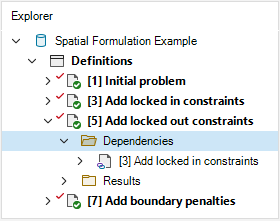
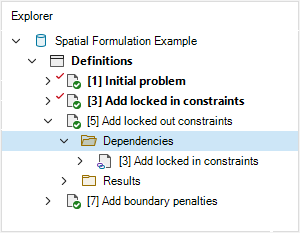
Updates to spatial_formulation_tutorial.md

diff --git a/docs/spatial_formulation_tutorial.md b/docs/spatial_formulation_tutorial.md
@@ -31,7 +31,7 @@ In SyncroSim, a library is a file with extension *.ssim* that stores all the mod
 
 2\. In this example, you will review a pre-configured library. To do so, select **File > New > From Online Template...**
 
-<!-- Add screenshot of step 2 !-->
+<img align="center" style="padding: 13px" width="500" src="assets/images/screenshot7.png">
 
 <div class=indentation>
 a. From the list of packages, select <b>prioritizr</b>. 
@@ -43,8 +43,7 @@ c.  If desired, you may edit the <i>File name</i>, and change the <i>Folder</i> 
 d. When done, click <b>OK</b>.
 </div>
 
-<!--Insert image of template library window-->
-<!--img align="center" style="padding: 13px" width="500" src=".assets/images/screenshot8.png"-->
+<img align="center" style="padding: 13px" width="600" src="assets/images/screenshot8.png">
 
 <br>
 
@@ -84,7 +83,7 @@ Now, you will review the inputs for the *Initial problem* scenario, which sets u
 
 10\.	Navigate to the **Pipeline** datasheet. Pipeline stages call on a transformer (*i.e.*, script) which takes the inputs from SyncroSim, runs a model, and returns the results to SyncroSim. Under the *Stage* column, note that a single pipeline stage is set, called *Base Prioritization*.
 
-<!-- Add screenshot !-->
+<img align="center" style="padding: 13px" width="800" src="assets/images/screenshot14-2.png">
 
 11\. Navigate to the **Prioritizr** tab, and expand the **Base Prioritization > Data** nodes. 
 
@@ -101,10 +100,12 @@ Now, you will review the inputs for the *Initial problem* scenario, which sets u
 
   <div class=indentation>
     i. <i>Planning Units</i> – a raster file of Washington (USA) in which each cell represents a different planning unit, and cell values denote land acquisition costs.
-    <!-- Add screenshot of raster, which can be taken from the prioritizr R documentation !-->
+    <br><br>
+  <img align="center" style="padding: 13px" width="500" src="assets/images/screenshot16-2.png">
     <br><br>
     ii. <i>Features</i> – a multi-layer raster file of the conservation feature data (i.e., bird species). Layers describe the spatial distribution of each bird species, where cell values denote the relative abundance of individuals.
-    <!-- Add screenshot of raster, which can be taken from the prioritizr R documentation !-->
+    <br><br>
+  <img align="center" style="padding: 13px" width="800" src="assets/images/screenshot16-3.png">
   </div>
 </div>
 
@@ -176,14 +177,13 @@ Now, you will review the inputs for the *Initial problem* scenario, which sets u
 
 The *Spatial Formulation Example* template library already contains the results for each scenario. Before exploring additional scenarios, you will view the main results for the **Initial problem** scenario. 
 
-<!-- Turn this into a actionable item and add screenshot of the expanded results folder !-->
-1\. In SyncroSim, the results for a scenario are organized into a *Results* folder, nested within its parent scenario.
+1\. In the *Explorer* window, expand the **Initial Problem > Results** node to reveal the **Inital Problem** results scenario.
 
 2\. Collapse the scenario node by clicking on the downward facing arrow beside the scenario name.
 
 3\. Navigate to the **Maps** tab, and double click on the pre-configured **Solution** map.
 
-<!-- Add screenshot !-->
+<img align="center" style="padding: 13px" width="600" src="assets/images/screenshot21-2.png">
 
 The *Solution* map shows which planning units have been selected for prioritization given the input data and parameters. Although this solution helps meet the representation targets, it does not account for existing protected areas inside the study area.
 
@@ -193,17 +193,17 @@ The *Solution* map shows which planning units have been selected for prioritizat
 
 Now, you will review the additional scenarios and explore how they differ from the *Initial problem*.
 
-<!-- Turn this item into an actionable step !-->
-5\. In the *Explorer* window, ... The **Add locked in constraints** scenario is dependent on the **Initial problem** scenario. We can see this in the Explorer window by expanding the **Add locked in constrains > Dependencies** node.*
+5\. In the *Explorer* window, expand the **Add locked in constraints > Dependencies** node to reveal the **Initial problem** scenario dependency.
 
 <img align="center" style="padding: 13px" width="300" src="assets/images/screenshot22.png">
 
 6\.	Select the pre-configured scenario **Add locked in constraints** and double-click it to open its properties. You may also right-click on the scenario name and select **Open** from the context menu.
 
-<!-- First, add an instruction to view the Input Format datasheet to show the information is greyed out and the "Inherit values..." checkbox is marked, explaining what it means (with screenshot to illustrate) !-->
-7\. 
+7\. Navigate to the **Prioritizr** tab, expand the **Base Prioritization > Data** node, and open the **Input Format** datasheet. Notice that this information cannot be edited (<i>i.e.</i>, greyed out) and the *"Inherit values from '[9] Initial Problem'"* checkbox in the bottom left corner is marked. This indicates that values within this datasheet are derived from the **Initial Problem** result scenario acting as a dependency.
 
-8\. Navigate to the **Prioritizr** tab, expand the **Parameters > Advanced > Constraints** nodes, and open the **Locked In** datasheet to review the following inputs:
+<img align="center" style="padding: 13px" width="400" src="assets/images/screenshot22-2.png">
+
+8\.  Navigate to the **Prioritizr** tab, expand the **Parameters > Advanced > Constraints** nodes, and open the **Locked In** datasheet to review the following inputs:
 
 <div class=indentation>
   i. <i>Add constraint</i> – set to <i>Yes</i>, ensuring that specific planning units area selected in the solution.
@@ -213,9 +213,13 @@ Now, you will review the additional scenarios and explore how they differ from t
 
 <img align="center" style="padding: 13px" width="500" src="assets/images/screenshot23.png">
 
-9\. <!-- Add to results, with screenshot !-->
+9\. In the *Explorer* window, right-click on the **Add locked in constraints** scenario, and select **Add to Results** from the context menu. 
 
-10\. <!-- View and comment on results, with screenshot !-->
+<img align="center" style="padding: 13px" width="400" src="assets/images/screenshot23-2.png">
+
+10\. Navigate to the **Maps** tab, and double click on the pre-configured **Solution** map. Notice that the **Add locked in constrains** results were added. This solution now accounts for existing protected areas inside the study area.
+
+<img align="center" style="padding: 13px" width="900" src="assets/images/screenshot23-3.png">
 
 <br>
 
@@ -228,15 +232,19 @@ The **Add locked out constraints** scenario addresses this issue by importing sp
 
 <br>
 
-16\.	In the *Explorer* window, select the pre-configured scenario **Add locked out constraints** and double-click it to open its properties. You may also right-click on the scenario name and select **Open** from the context menu.
-
-> *Note: the **Add locked out constraints** scenario is dependent on the **Add locked in constraints** scenario. We can see this in the Explorer window by expanding the **Add locked out constrains > Dependencies** node.*
+11\.	In the *Explorer* window, expand the **Add locked out constraints > Dependencies** node to reveal the **Add locked in constraints** scenario dependency.
 
 <img align="center" style="padding: 13px" width="300" src="assets/images/screenshot24.png">
 
 <br>
 
-17\. Navigate to the **Prioritizr** tab and expand the **Parameters > Advanced > Constraints** node. Open the **Locked Out** window to review the following inputs:
+12\.  Select the pre-configured scenario **Add locked out constraints** and double-click it to open its properties. You may also right-click on the scenario name and select **Open** from the context menu.
+
+13\.  Navigate to the **Prioritizr** tab, expand the **Base Prioritization > Data** node, and open the **Input Format** datasheet. Notice that this information cannot be edited (i.e., greyed out) and the *“Inherit values from ‘[10] Add locked in constraints’”* checkbox in the bottom left corner is marked. This indicates that values within this datasheet are derived from the **Add locked in constraints** result scenario acting as a dependency.
+
+<img align="center" style="padding: 13px" width="400" src="assets/images/screenshot24-2.png">
+
+14\.  Navigate to the **Prioritizr** tab, expand the **Parameters > Advanced > Constraints** node, and open the **Locked Out** datasheet to review the following inputs:
 
 <div class=indentation>
   i. <i>Add constraint</i> - must be set to <i>Yes</i> in order to add constraints to the conservation planning problem to ensure specific planning units area selected (or allocated to a specific zone) in the solution.
@@ -245,6 +253,14 @@ The **Add locked out constraints** scenario addresses this issue by importing sp
   </div>
 
 <img align="center" style="padding: 13px" width="500" src="assets/images/screenshot25.png">
+
+15\.  In the **Explorer** window, right-click on the **Add locked out constraints** scenario, and select **Add to Results** from the context menu.
+
+<img align="center" style="padding: 13px" width="400" src="assets/images/screenshot25-2.png">
+
+16\.  Navigate to the **Maps** tab, and double click on the pre-configured **Solution** map. Notice that the **Add locked out constraints** results were added. This solution now accounts for existing areas that are *not* available for protection inside the study area.
+
+<img align="center" style="padding: 13px" width="900" src="assets/images/screenshot25-3.png">
 
 <br>
 
@@ -256,15 +272,19 @@ The **Add boundary penalties** scenario addresses this final issue by adding pen
 
 <br>
 
-18\.	In the *Explorer* window, select the pre-configured scenario **Add boundary penalties** and double-click it to open its properties. You may also right-click on the scenario name and select **Open** from the context menu.
-
-> *Note: the **Add boundary penalties** scenario is dependent on the **Add locked out constraints** scenario. We can see this in the Explorer window by expanding the **Add boundary penalties > Dependencies** node.*
+17\.	In the *Explorer* window, expand the **Add boundary penalties > Dependencies** node to reveal the **Add locked out constraints** scenario dependency.
 
 <img align="center" style="padding: 13px" width="300" src="assets/images/screenshot26.png">
 
 <br>
 
-19\. Navigate to the **Prioritizr** tab and expand the **Parameters > Advanced > Penalties** node. Open the **Boundary** window to review the following inputs:
+18\.  Select the pre-configured scenario **Add boundary penalties** and double-click it to open its properties. You may also right-click on the scenario name and select **Open** from the context menu. 
+
+19\.  Navigate to the **Prioritizr** tab, expand the **Base Prioritization > Data** node, and open the **Input Format** datasheet. Notice that this information cannot be edited (i.e., greyed out) and the *“Inherit values from ‘[11] Add locked in constraints’”* checkbox in the bottom left corner is marked. This indicates that values within this datasheet are derived from the **Add locked out constraints** result scenario acting as a dependency.
+
+<img align="center" style="padding: 13px" width="400" src="assets/images/screenshot26-2.png">
+
+20\.  Navigate to the **Prioritizr** tab, expand the **Parameters > Advanced > Penalties** node, and open the **Boundary** datasheet to review the following inputs:
 
 <div class=indentation>
   i. <i>Add penalty</i> - must be set to <i>Yes</i> in order to add boundary penalties to the conservation problem to favour solutions that spatially clump planning units together based on the overall boundary length (<i>i.e.</i>, total perimeter).
@@ -276,27 +296,37 @@ The **Add boundary penalties** scenario addresses this final issue by adding pen
 
 <img align="center" style="padding: 13px" width="500" src="assets/images/screenshot27.png">
 
+21\. In the **Explorer** window, right-click on the **Add boundary penalties** scenario, and select **Add to Results** from the context menu. 
+
+<img align="center" style="padding: 13px" width="400" src="assets/images/screenshot27-2.png">
+
+22\.  Navigate to the **Maps** tab, and double click on the pre-configured **Solution** map. Notice that the **Add boundary penalties** results were added. This solution now accounts for highly fragmented areas inside the study area.
+
+<img align="center" style="padding: 13px" width="900" src="assets/images/screenshot27-3.png">
+
 <br>
 
 <!-- Update numbers  and add a bit more of explanation/commentry !-->
-1\. Navigate to the **Charts** tab, and double-click on the first pre-configured chart: **Number of planning units**. 
+23\. Navigate to the **Charts** tab, and double-click on the first pre-configured chart: **Number of planning units**. Note that the number of planning units increases until we add the boundary penalties. 
 
 <img align="center" style="padding: 13px" width="300" src="assets/images/screenshot28.png">
 
 <img align="center" style="padding: 13px" width="500" src="assets/images/screenshot29.png">
 
-2\. Next, double-click on the second pre-configured chart: **Solution cost**.
+24\. Next, double-click on the second pre-configured chart: **Solution cost**. Here, the solution cost is equal across scenarios since the budget was set at $8,748.4910.
 
 <img align="center" style="padding: 13px" width="500" src="assets/images/screenshot30.png">
 
-3\. Now, double-click on the third pre-configured chart: **Target coverage**
+25\. Now, double-click on the third pre-configured chart: **Target coverage**. Here, the target coverage is equal across scenarios.
 
 <img align="center" style="padding: 13px" width="500" src="assets/images/screenshot31.png">
 
-4\. Navigate to the **Maps** tab, and double click on the pre-configured **Solution** map.
+26\. Navigate to the **Maps** tab, and double click on the pre-configured **Solution** map.
 
 <img align="center" style="padding: 13px" width="300" src="assets/images/screenshot32.png">
 
 <br>
 
-<!-- Add plug for next tutorial !-->
+This tutorial demonstrates how *prioritizr* can be used to build and customize conservation problems, and the solve them to generate solutions. Although we explored a few different scenarios for modifying a conservation problem, this package can specify objectives, constraints, penalties, and decision variables in order to build and customize conservation planning problems to suit your planning scenario.
+
+To create and solve a tabular conservation problem, see the next tutorial <a href="/tabular_formulation">Tabular Formulation Example with prioritizr SyncroSim</a>. 
